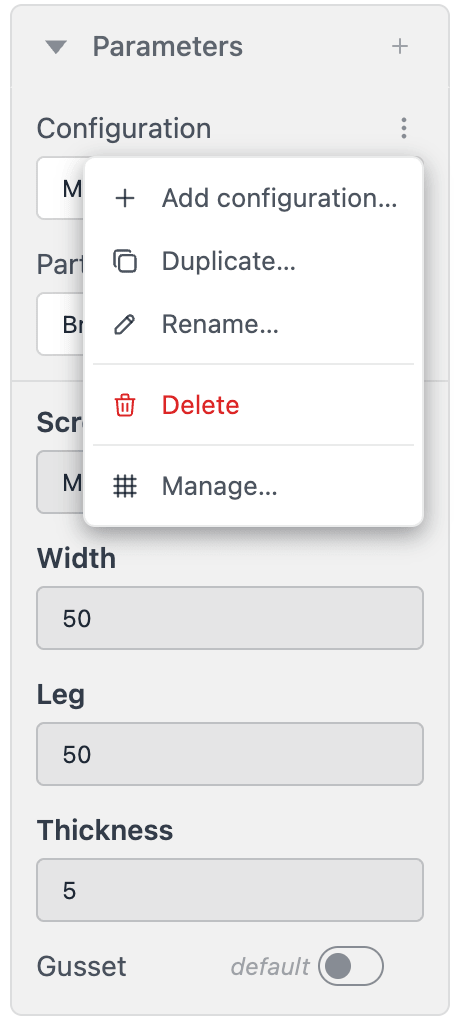
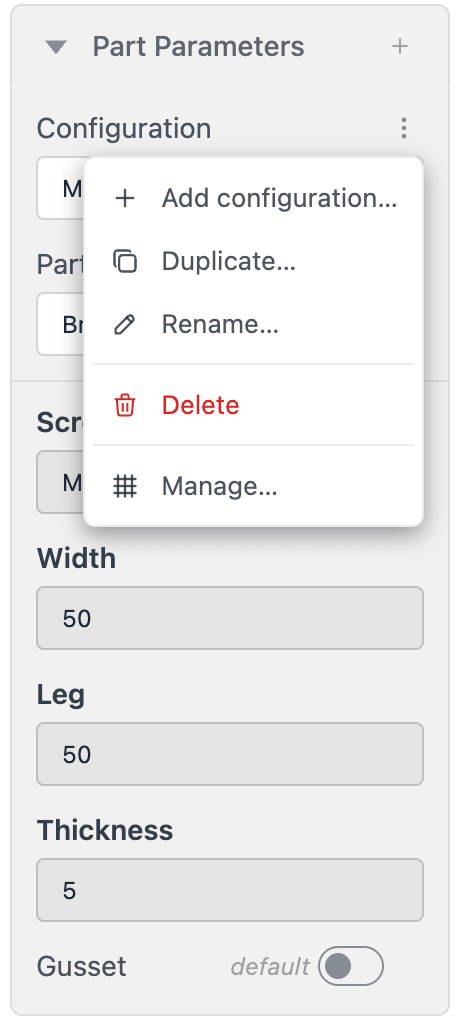
docs: the part and assembly panels are Part Parameters and Assembly Parameters and the rail button is Global Parameters; band, menu and param panel screenshots retaken

diff --git a/website/docs/part/_examples/part-param.js b/website/docs/part/_examples/part-param.js
@@ -3,7 +3,7 @@ import { coincident, distance, fix, horizontal, vertical } from 'fluidcad/constr
 
 // A parametric mounting plate: a rectangle with a clearance hole near each
 // corner, extruded to a thickness. Every param() is a control in the
-// Parameters panel; an assembly sets them per instance —
+// Part Parameters panel; an assembly sets them per instance —
 // insert(plate, { Width: 120, Hole: 6.6 }).
 export const plate = part('Mounting plate', () => {
     // highlight-start

diff --git a/website/docs/assembly/_examples/asm-parameters.assembly.js b/website/docs/assembly/_examples/asm-parameters.assembly.js
@@ -14,7 +14,7 @@ const stack = assembly('stack', () => {
 
 export const frame = assembly('frame', () => {
     // highlight-start
-    // The assembly's own parameter — shown in its Parameters panel and
+    // The assembly's own parameter — shown in its Assembly Parameters panel and
     // passed on to the inserts below.
     const rail = param('Rail width', 120, 'number', { min: 80, max: 200, step: 10 });
     // Overrides are keyed by the part's labels. These two share one build.
